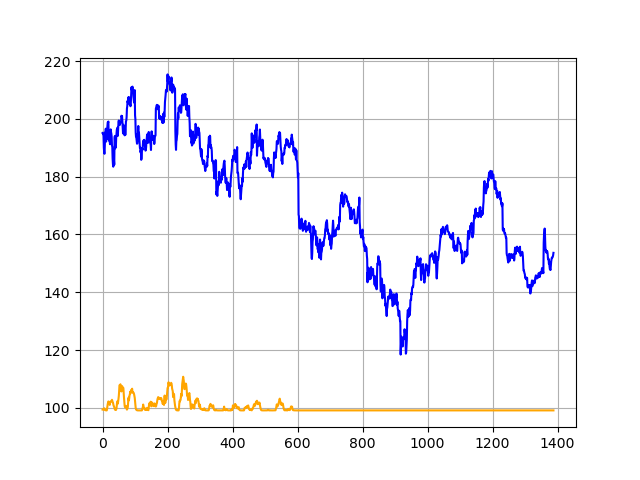
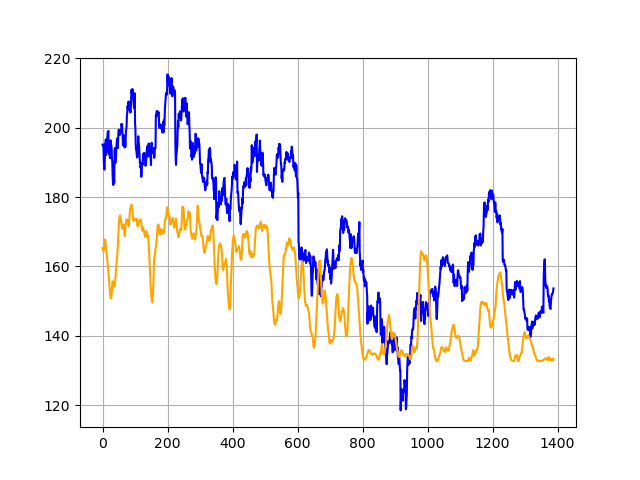
softmax bce + mse

diff --git a/code/epoch.py b/code/epoch.py
@@ -23,55 +23,27 @@ def train_epoch(predictor, optimizer, dataloader, device, sample_point=5, value_
 
         _, pr = predictor(ref)
 
-        # print(pr.shape)
-        # print(pr)
-
         pos = torch.isnan(gt)
         pos = ~ pos
 
+        ###########################################
+        # edit by fang
+        # remove sampling, and use softmax
         gt = gt[pos]
         pr = pr[pos]
 
-        # print(gt)
-        # gt = gt.view(batch, -1)
-        # pr = pr.view(batch, -1)
-
-        # BCE loss
-        # loss = torch.tensor(0, dtype=torch.float).to(device)
-
-        # loss += nn.MSELoss()(pr, gt) * value_weigth
-        # loss += nn.KLDivLoss()(pr, gt) * value_weigth
-
-        # sampling
-        # for sample in range(sample_point):
-        #     #             for _gt, _pr in zip(gt, pr):
-
-        # _gt = gt
-        # _pr = pr
-
-        # src = (torch.rand(_gt.size(0) * sample_point) * _gt.size(0)).long()
-        # det = (torch.rand(_gt.size(0) * sample_point) * _gt.size(0)).long()
-
-        # y_gt = _gt[det] - _gt[src]
-        # y_pr = _pr[det] - _pr[src]
-
-        ######################################################
-        # edit by fang
-        # change comparing two node from using bce to mse
-        # and soften gt
-        #  y_gt = torch.where(y_gt >= 0, torch.ones_like(y_gt), torch.zeros_like(y_gt))
         y_gt = nn.Softmax(dim=0)(gt)
 
         y_pr = nn.Softmax(dim=0)(pr)
 
-        loss = nn.BCELoss()(y_pr, y_gt) * trend_weight
-        # loss += nn.MSELoss()(y_pr, y_gt) * trend_weight
-        ####################################################
+        loss = nn.BCELoss()(y_pr, y_gt) * trend_weight + \
+            nn.MSELoss()(pr.unsqueeze(0), gt.unsqueeze(0)) * value_weigth
 
         loss.backward()
         optimizer.step()
 
         epoch_loss += loss.item()
+        ################################################
 
     epoch_loss = epoch_loss/(index+1)
 

diff --git a/test.py b/test.py
@@ -91,7 +91,7 @@ if __name__ == '__main__':
     print(x.shape, y.shape)
 
     # load path
-    model_path = 'code/2021-04-12_17-45_last.pth'
+    model_path = 'code/2021-04-12_18-17.pth'
 
     encoder = model.Extractor(in_channels=1, out_channels=1,
                               use_batchnorm=True, maxpool=False)
@@ -113,6 +113,6 @@ if __name__ == '__main__':
     # print(predict)
     plt.grid()
     plt.plot(truth, 'b')
-    plt.plot(np.array(predict)+100, 'orange')
+    plt.plot(predict, 'orange')
     plt.savefig('result.png')
     plt.show()

diff --git a/training.py b/training.py
@@ -58,7 +58,7 @@ kendal_max = 1
 for e in range(500):
 
     train_loss = epoch.train_epoch(predictor, optimizer, trainloader,
-                                   device, sample_point=samples, value_weigth=0, trend_weight=1)
+                                   device, sample_point=samples, value_weigth=1e-5, trend_weight=1)
     pr, gt = epoch.test_epoch(predictor, dataset, device)
 
     kendal = evaluation.normalised_kendall_tau_distance(gt, pr)
